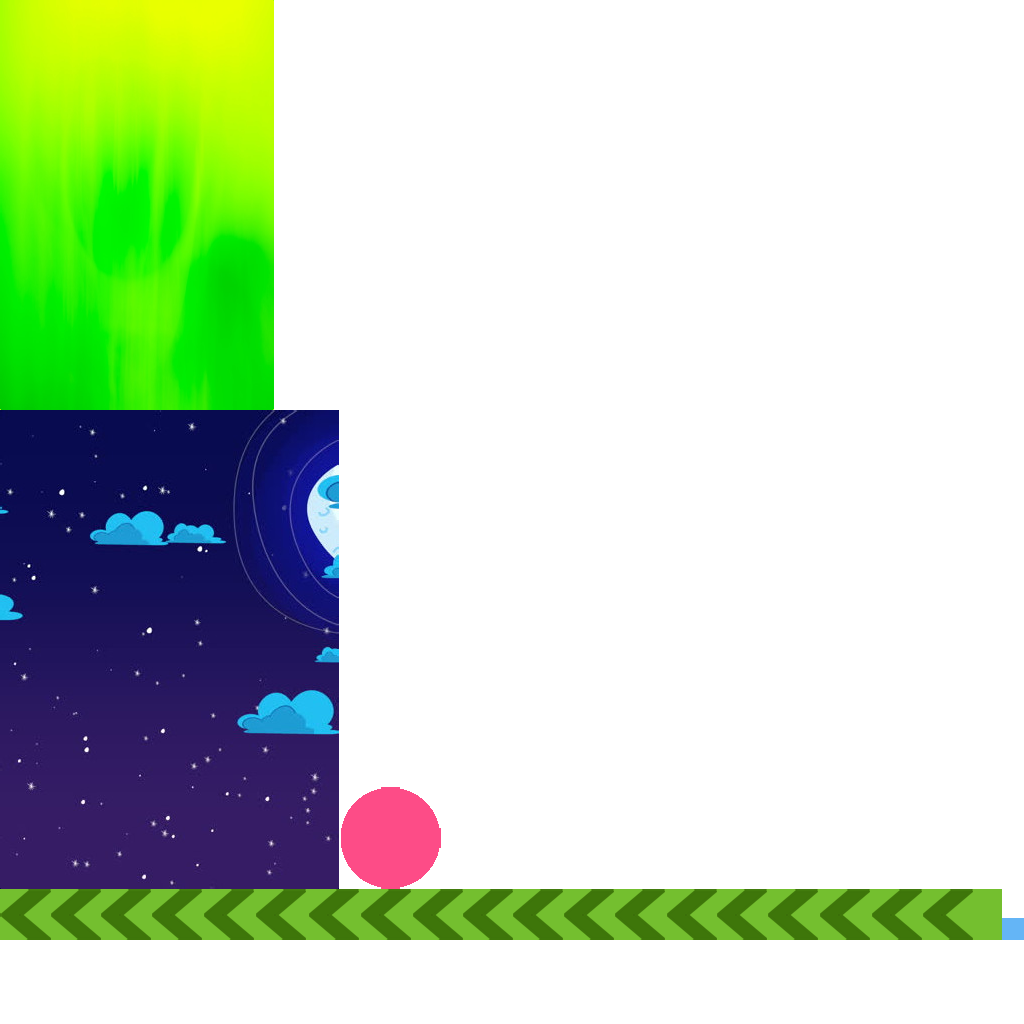
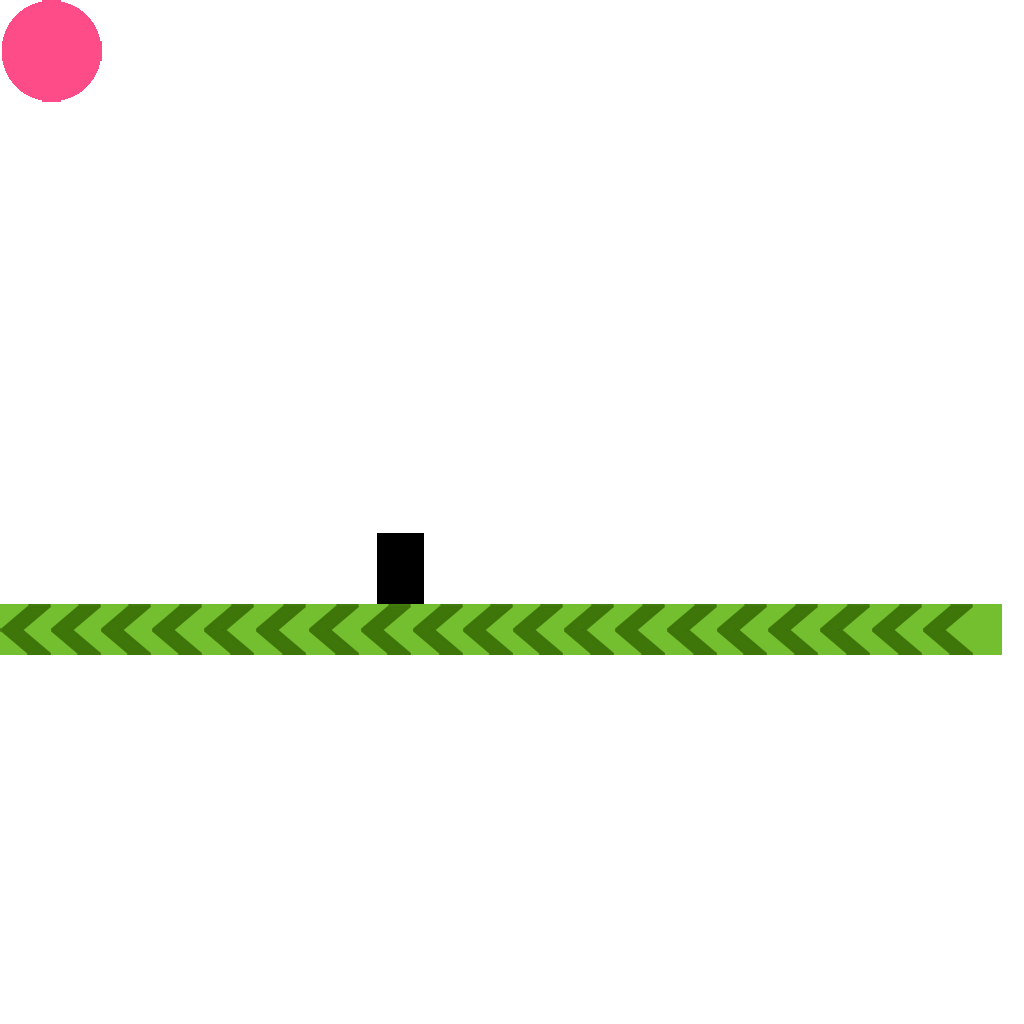
Removed Grass

diff --git a/core/src/com/demonhunts/throughit/gameworld/GameRenderer.java b/core/src/com/demonhunts/throughit/gameworld/GameRenderer.java
@@ -4,24 +4,17 @@ import com.badlogic.gdx.Gdx;
 import com.badlogic.gdx.graphics.GL20;
 import com.badlogic.gdx.graphics.OrthographicCamera;
 import com.badlogic.gdx.graphics.g2d.SpriteBatch;
+import com.badlogic.gdx.graphics.g2d.TextureRegion;
 import com.badlogic.gdx.graphics.glutils.ShapeRenderer;
 import com.badlogic.gdx.graphics.glutils.ShapeRenderer.ShapeType;
-import com.badlogic.gdx.scenes.scene2d.Actor;
-import com.badlogic.gdx.scenes.scene2d.Stage;
-import com.badlogic.gdx.scenes.scene2d.ui.ImageButton;
-import com.badlogic.gdx.scenes.scene2d.ui.Skin;
-import com.badlogic.gdx.scenes.scene2d.utils.ChangeListener;
 import com.badlogic.gdx.utils.TimeUtils;
 import com.demonhunts.throughit.ThroughIt;
 import com.demonhunts.throughit.gameobjects.Dot;
-import com.demonhunts.throughit.helpers.AssetLoader;
-import com.demonhunts.throughit.gameobjects.ScrollHandler;
 import com.demonhunts.throughit.gameobjects.Pipe;
-import com.demonhunts.throughit.gameobjects.Grass;
-import com.badlogic.gdx.graphics.g2d.TextureRegion;
+import com.demonhunts.throughit.gameobjects.ScrollHandler;
+import com.demonhunts.throughit.helpers.AssetLoader;
 import com.demonhunts.throughit.helpers.FontHelper;
 import com.demonhunts.throughit.screens.EndScreen;
-import com.demonhunts.throughit.screens.GameScreen;
 
 
 public class GameRenderer {
@@ -34,10 +27,9 @@ public class GameRenderer {
 
     private Dot dot;
     private ScrollHandler scroller;
-    private Grass frontGrass, backGrass;
     private Pipe pipe1, pipe2, pipe3;
 
-    private TextureRegion bg, grass;
+    private TextureRegion bg;
     private TextureRegion bar;
     long currentTime;
 
@@ -79,7 +71,6 @@ public class GameRenderer {
         // Draw Background color
         shapeRenderer.rect(0, 0, 136, midPointY + 66);
 
-        // Draw Grass
         shapeRenderer.setColor(111 / 255.0f, 186 / 255.0f, 45 / 255.0f, 1);
         shapeRenderer.rect(0, midPointY + 66, 136, 11);
 
@@ -94,10 +85,8 @@ public class GameRenderer {
         batcher.enableBlending();
         batcher.draw(AssetLoader.dot,dot.getX(),dot.getY(),dot.getWidth(),dot.getHeight());
 
-        drawGrass();
         drawPipes();
         batcher.enableBlending();
-
 
 
         if (myWorld.isReady()) {
@@ -128,8 +117,6 @@ public class GameRenderer {
     private void initGameObjects() {
         dot = myWorld.getDot();
         scroller = myWorld.getScroller();
-        frontGrass = scroller.getFrontGrass();
-        backGrass = scroller.getBackGrass();
         pipe1 = scroller.getPipe1();
         pipe2 = scroller.getPipe2();
         pipe3 = scroller.getPipe3();
@@ -137,15 +124,7 @@ public class GameRenderer {
 
     private void initAssets() {
         bg = AssetLoader.bg;
-        grass = AssetLoader.grass;
         bar = AssetLoader.bar;
-    }
-
-    private void drawGrass() {
-        batcher.draw(grass, frontGrass.getX(), gameHeight-11,
-                frontGrass.getWidth(), frontGrass.getHeight());
-        batcher.draw(grass, backGrass.getX(), gameHeight-11,
-                backGrass.getWidth(), backGrass.getHeight());
     }
 
     private void drawPipes() {

diff --git a/core/src/com/demonhunts/throughit/gameobjects/ScrollHandler.java b/core/src/com/demonhunts/throughit/gameobjects/ScrollHandler.java
@@ -5,7 +5,6 @@ import com.demonhunts.throughit.helpers.AssetLoader;
 
 public class ScrollHandler {
 
-    private Grass frontGrass, backGrass;
     private Pipe pipe1, pipe2, pipe3;
     public static final int SCROLL_SPEED = -80;
     public static final int PIPE_GAP = 109;
@@ -13,10 +12,6 @@ public class ScrollHandler {
 
     public ScrollHandler(GameWorld gameWorld,float yPos) {
         this.gameWorld = gameWorld;
-        frontGrass = new Grass(0, yPos, 143, 11, SCROLL_SPEED);
-        backGrass = new Grass(frontGrass.getTailX(), yPos, 143, 11,
-                SCROLL_SPEED);
-
         pipe1 = new Pipe(210, 0, 22, 60, SCROLL_SPEED, yPos);
         pipe2 = new Pipe(pipe1.getTailX() + PIPE_GAP, 0, 22, 70, SCROLL_SPEED,
                 yPos);
@@ -25,8 +20,6 @@ public class ScrollHandler {
     }
 
     public void update(float delta) {
-        frontGrass.update(delta);
-        backGrass.update(delta);
         pipe1.update(delta);
         pipe2.update(delta);
         pipe3.update(delta);
@@ -39,27 +32,15 @@ public class ScrollHandler {
         } else if (pipe3.isScrolledLeft()) {
             pipe3.reset(pipe2.getTailX() + PIPE_GAP);
         }
-
-        if (frontGrass.isScrolledLeft()) {
-            frontGrass.reset(backGrass.getTailX());
-
-        } else if (backGrass.isScrolledLeft()) {
-            backGrass.reset(frontGrass.getTailX());
-
-        }
     }
 
     public void stop() {
-        frontGrass.stop();
-        backGrass.stop();
         pipe1.stop();
         pipe2.stop();
         pipe3.stop();
     }
 
     public void onRestart() {
-        frontGrass.onRestart(0, SCROLL_SPEED);
-        backGrass.onRestart(frontGrass.getTailX(), SCROLL_SPEED);
         pipe1.onRestart(210, SCROLL_SPEED);
         pipe2.onRestart(pipe1.getTailX() + PIPE_GAP, SCROLL_SPEED);
         pipe3.onRestart(pipe2.getTailX() + PIPE_GAP, SCROLL_SPEED);
@@ -91,14 +72,6 @@ public class ScrollHandler {
 
     private void addScore(int increment) {
         gameWorld.addScore(increment);
-    }
-
-    public Grass getFrontGrass() {
-        return frontGrass;
-    }
-
-    public Grass getBackGrass() {
-        return backGrass;
     }
 
     public Pipe getPipe1() {

diff --git a/core/src/com/demonhunts/throughit/screens/EndScreen.java b/core/src/com/demonhunts/throughit/screens/EndScreen.java
@@ -103,7 +103,8 @@ public class EndScreen implements Screen,InputProcessor {
                     game.playServices.showScore();
             }
         });
-        stage.addActor(leaderboardButton);
+        if(game.isPlayServices)
+            stage.addActor(leaderboardButton);
 
         //Achievements Button resources
         achievementsButton = new ImageButton(buttonSkin.getDrawable("achievements"),buttonSkin.getDrawable("achievementsClicked"));
@@ -117,7 +118,8 @@ public class EndScreen implements Screen,InputProcessor {
                     game.playServices.showAchievement();
             }
         });
-        stage.addActor(achievementsButton);
+        if(game.isPlayServices)
+            stage.addActor(achievementsButton);
 
         //Home Button resources
         homeButton = new ImageButton(buttonSkin.getDrawable("home"),buttonSkin.getDrawable("homeClicked"));

diff --git a/core/src/com/demonhunts/throughit/screens/MainScreen.java b/core/src/com/demonhunts/throughit/screens/MainScreen.java
@@ -86,7 +86,9 @@ public class MainScreen implements Screen,InputProcessor {
                     game.playServices.showScore();
             }
         });
-        stage.addActor(leaderboardButton);
+
+        if(game.isPlayServices)
+            stage.addActor(leaderboardButton);
 
         //Achievements Button resources
         achievementsButton = new ImageButton(buttonSkin.getDrawable("achievements"),buttonSkin.getDrawable("achievementsClicked"));
@@ -100,7 +102,8 @@ public class MainScreen implements Screen,InputProcessor {
                     game.playServices.showAchievement();
             }
         });
-        stage.addActor(achievementsButton);
+        if(game.isPlayServices)
+            stage.addActor(achievementsButton);
 
         //Rate Button Resource
         rateButton = new ImageButton(buttonSkin.getDrawable("rate"),buttonSkin.getDrawable("rate"));

diff --git a/core/src/com/demonhunts/throughit/helpers/AssetLoader.java b/core/src/com/demonhunts/throughit/helpers/AssetLoader.java
@@ -47,7 +47,7 @@ public class AssetLoader {
         playbutton = atlas.findRegion("playButton");
 
 
-        bg = atlas.findRegion("back");
+        bg = atlas.findRegion("background");
         bg.flip(false, true);
 
         grass = atlas.findRegion("bottom");
